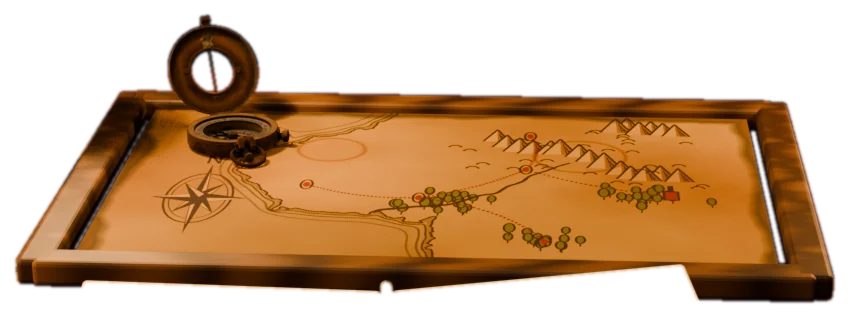
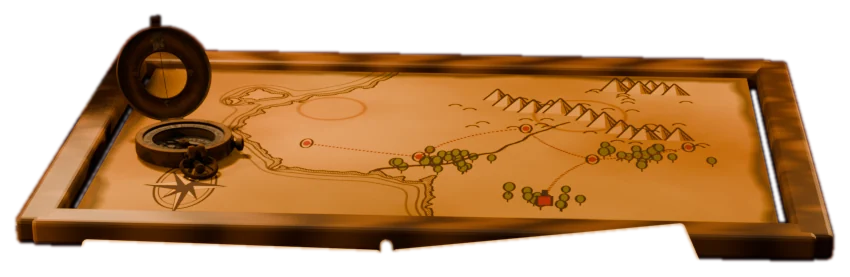
Keep the compass clear of the portrait frames, and towns off the peaks
The brass compass moves to the near left of the map, so no part of it
rises behind a portrait frame (the click map gave those pixels to seat0);
the drawn compass rose moves down out of its way. A town keeps clear of a
peak's full drawn height, not just its base.

diff --git a/docs/wiki/demo/landing-table/layout.js b/docs/wiki/demo/landing-table/layout.js
@@ -1,2 +1,2 @@
 // Copied from scripts/town/landing-table-layout.mjs by tools/landing-table/make_demo.py.
-export default {"width": 2560, "height": 1440, "hitStep": 14, "props": {"quests": {"x": 826, "y": 615, "w": 798, "h": 389}, "market": {"x": 1588, "y": 473, "w": 581, "h": 481}, "games": {"x": 389, "y": 521, "w": 261, "h": 384}, "carouse": {"x": 2237, "y": 392, "w": 257, "h": 351}, "map": {"x": 823, "y": 367, "w": 850, "h": 318}, "rumors": {"x": 599, "y": 567, "w": 237, "h": 117}, "downtime": {"x": 267, "y": 343, "w": 195, "h": 288}, "journals": {"x": 1529, "y": 841, "w": 511, "h": 345}, "title": {"x": 743, "y": 968, "w": 907, "h": 201}, "dial": {"x": 336, "y": 893, "w": 382, "h": 230}, "recaps": {"x": 1976, "y": 704, "w": 481, "h": 290}}, "frames": [{"x": 1024, "y": 272, "w": 167, "h": 201, "face": [[1055.6, 304.3], [1157.7, 303.8], [1160.0, 440.7], [1059.4, 441.3]]}, {"x": 1369, "y": 272, "w": 167, "h": 201, "face": [[1402.3, 303.8], [1504.4, 304.3], [1500.6, 441.3], [1400.0, 440.7]]}, {"x": 658, "y": 272, "w": 178, "h": 201, "face": [[691.0, 304.8], [794.2, 303.2], [802.9, 440.0], [701.2, 442.0]]}, {"x": 1927, "y": 271, "w": 184, "h": 203, "face": [[1973.3, 302.9], [2077.7, 305.2], [2063.8, 442.4], [1960.9, 439.6]]}, {"x": 309, "y": 271, "w": 189, "h": 202, "face": [[343.1, 305.4], [448.5, 302.7], [463.4, 439.4], [359.5, 442.6]]}, {"x": 2180, "y": 271, "w": 194, "h": 203, "face": [[2232.3, 302.5], [2338.8, 305.6], [2320.2, 442.9], [2215.4, 439.2]]}], "marketOpen": {"x": 1588, "y": 305, "w": 573, "h": 649}, "tomeLeft": [[916.3, 651.0], [1193.5, 661.0], [1208.3, 839.3], [877.9, 829.8]], "tomeRight": [[1226.0, 660.1], [1497.7, 635.1], [1569.9, 807.3], [1247.0, 838.0]], "title": [[868.9, 1024.2], [1538.8, 1024.2], [1558.6, 1123.8], [837.4, 1123.8]], "dial": [[437.3, 920.1], [706.4, 920.1], [632.4, 1074.5], [328.6, 1074.5]], "chestFront": [1899.7, 781.0], "rev": "4cb3d30bca"};
+export default {"width": 2560, "height": 1440, "hitStep": 14, "props": {"quests": {"x": 826, "y": 615, "w": 798, "h": 389}, "market": {"x": 1588, "y": 473, "w": 581, "h": 481}, "games": {"x": 389, "y": 521, "w": 261, "h": 384}, "carouse": {"x": 2237, "y": 392, "w": 257, "h": 351}, "map": {"x": 823, "y": 408, "w": 850, "h": 277}, "rumors": {"x": 599, "y": 567, "w": 237, "h": 117}, "downtime": {"x": 267, "y": 343, "w": 195, "h": 288}, "journals": {"x": 1529, "y": 841, "w": 511, "h": 345}, "title": {"x": 743, "y": 968, "w": 907, "h": 201}, "dial": {"x": 336, "y": 893, "w": 382, "h": 230}, "recaps": {"x": 1976, "y": 704, "w": 481, "h": 290}}, "frames": [{"x": 1024, "y": 272, "w": 167, "h": 201, "face": [[1055.6, 304.3], [1157.7, 303.8], [1160.0, 440.7], [1059.4, 441.3]]}, {"x": 1369, "y": 272, "w": 167, "h": 201, "face": [[1402.3, 303.8], [1504.4, 304.3], [1500.6, 441.3], [1400.0, 440.7]]}, {"x": 658, "y": 272, "w": 178, "h": 201, "face": [[691.0, 304.8], [794.2, 303.2], [802.9, 440.0], [701.2, 442.0]]}, {"x": 1927, "y": 271, "w": 184, "h": 203, "face": [[1973.3, 302.9], [2077.7, 305.2], [2063.8, 442.4], [1960.9, 439.6]]}, {"x": 309, "y": 271, "w": 189, "h": 202, "face": [[343.1, 305.4], [448.5, 302.7], [463.4, 439.4], [359.5, 442.6]]}, {"x": 2180, "y": 271, "w": 194, "h": 203, "face": [[2232.3, 302.5], [2338.8, 305.6], [2320.2, 442.9], [2215.4, 439.2]]}], "marketOpen": {"x": 1588, "y": 305, "w": 573, "h": 649}, "tomeLeft": [[916.3, 651.0], [1193.5, 661.0], [1208.3, 839.3], [877.9, 829.8]], "tomeRight": [[1226.0, 660.1], [1497.7, 635.1], [1569.9, 807.3], [1247.0, 838.0]], "title": [[868.9, 1024.2], [1538.8, 1024.2], [1558.6, 1123.8], [837.4, 1123.8]], "dial": [[437.3, 920.1], [706.4, 920.1], [632.4, 1074.5], [328.6, 1074.5]], "chestFront": [1899.7, 781.0], "rev": "a9840d21db"};

diff --git a/tools/landing-table/make_map.py b/tools/landing-table/make_map.py
@@ -147,7 +147,7 @@ towns, tries = [], 0
 while len(towns) < 6 and tries < 4000:
     tries += 1
     x, y = rng.uniform(W * 0.25, W * 0.95), rng.uniform(H * 0.15, H * 0.9)
-    if on_land(x, y, 34) and all(math.hypot(x - a, y - b) > 260 for a, b in towns) and all(math.hypot(x - a, y - b) > 80 for a, b in peaks):
+    if on_land(x, y, 34) and all(math.hypot(x - a, y - b) > 260 for a, b in towns) and all(not (abs(x - a) < 100 and b - 80 * SY - 30 < y < b + 40) for a, b in peaks):   # clear of the tall peaks
         towns.append((x, y))
 links, joined = [], {0}
 while len(joined) < len(towns):                           # each town joins the nearest town already on the roads
@@ -169,7 +169,7 @@ for i, (x, y) in enumerate(towns):
         d.ellipse([x - 11, y - 11 * SY, x + 11, y + 11 * SY], fill=(150, 40, 25))
 
 # ── a compass rose out in the south-west sea ─────────────────────────────────────────────────────────────────────
-cx, cy, R = W * 0.14, H * 0.62, 150
+cx, cy, R = W * 0.14, H * 0.8, 130
 d.ellipse([cx - R * 0.72, cy - R * 0.72 * SY, cx + R * 0.72, cy + R * 0.72 * SY], outline=INK, width=8)
 d.ellipse([cx - R * 0.6, cy - R * 0.6 * SY, cx + R * 0.6, cy + R * 0.6 * SY], outline=INK, width=4)
 for k in range(8):

diff --git a/tools/landing-table/build_table.py b/tools/landing-table/build_table.py
@@ -444,7 +444,7 @@ def framed_map():
     for i, (sx, sy, x, y) in enumerate([(0.72, 0.035, 0, 0.237), (0.72, 0.035, 0, -0.237), (0.035, 0.5, 0.358, 0), (0.035, 0.5, -0.358, 0)]):
         parts.append(box(f"MapFrame{i}", (sx, sy, 0.025), (x, y, 0.0125), M["darkwood"], p, bevel=0.005))
     g = group("Map", parts, (-0.02, 0.5, 0), -3)
-    ph_place("Compass", ph_objects("seadogs_compass", ["seadogs_compass", "seadogs_compass_lid", "seadogs_compass_needle"]), (-0.24, 0.62, 0.014), 1.3, 20, p)
+    ph_place("Compass", ph_objects("seadogs_compass", ["seadogs_compass", "seadogs_compass_lid", "seadogs_compass_needle"]), (-0.275, 0.47, 0.014), 1.3, 20, p)
     return g
 
 
